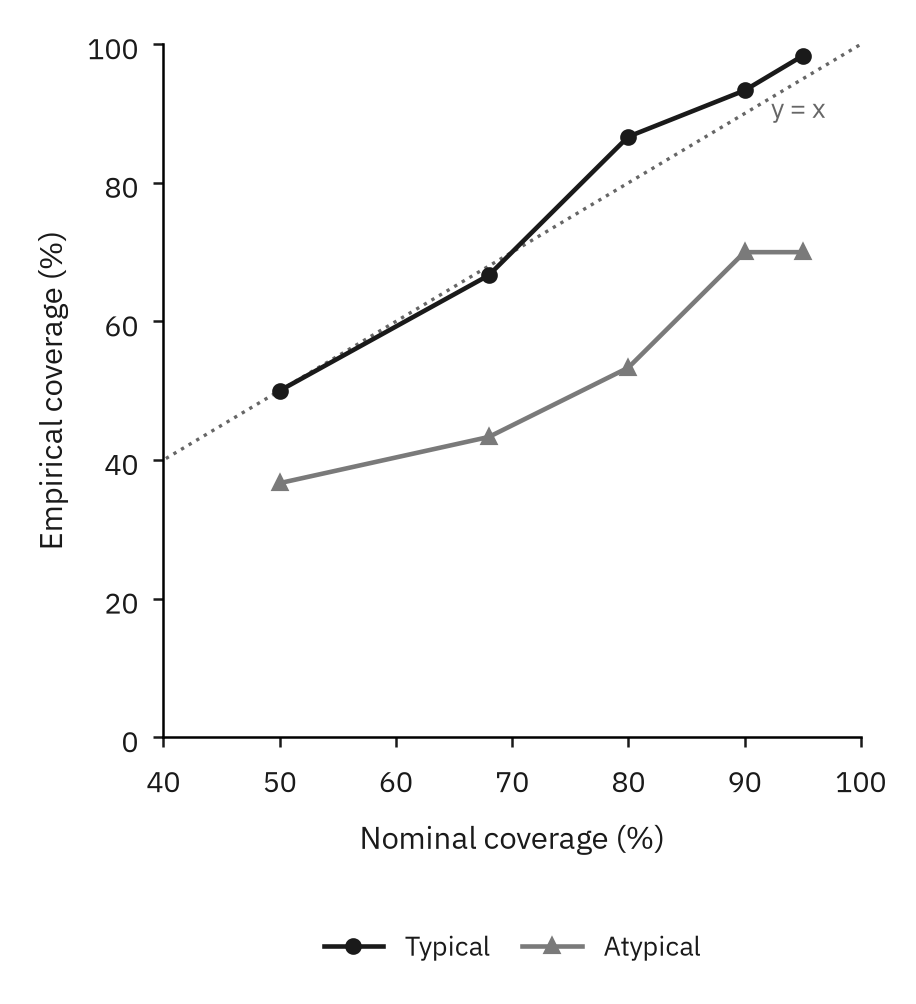
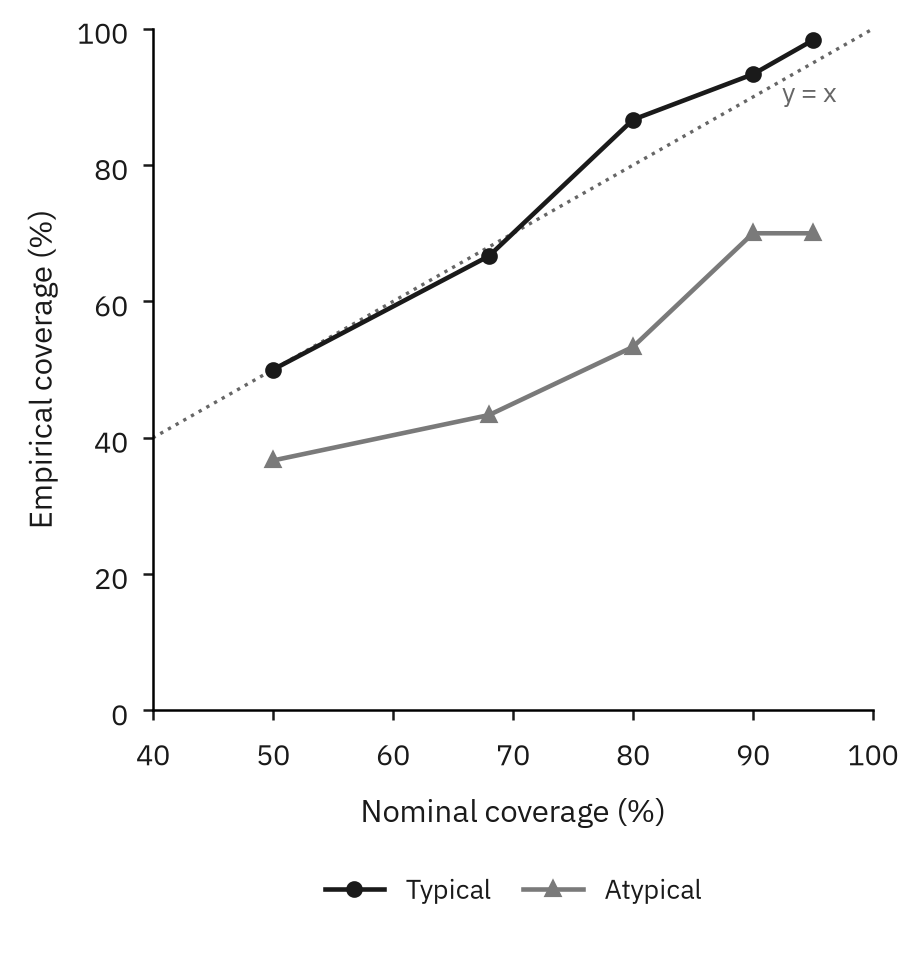
Add population simulation and figures to README

diff --git a/mobile/src/domain/__sim__/population.sim.ts b/mobile/src/domain/__sim__/population.sim.ts
@@ -1,0 +1,265 @@
+/// <reference types="node" />
+import { mkdirSync, writeFileSync } from 'fs';
+import { join } from 'path';
+
+import { reportBias, weeklyDose, type LoggedSet } from '../dose';
+import { EXERCISES_BY_ID, type Muscle } from '../exercises';
+import { DEFAULT_WEEKLY_SETS, generatePlan } from '../generator';
+import { calibratedCost, DAY_SHARE, MAX_EFFECTIVE_SETS, mulberry32, normal, optimizeVolume, plannedEffortWeight, PRIORS, samplePrior, SIGMA_1, summarize, type Particle, type Posterior } from '../model';
+import { ADDED_WEIGHT_LIFTS } from '../progress';
+import { clampProfile, DEFAULT_DAYS, DEFAULT_PROFILE, type Experience, type Goal, type Profile, type Sex } from '../profile';
+import { estimateFromBracket, updateAfterSet, type LoadEstimate } from '../session-update';
+import { COMBAT_SPORTS, SPORT_PROFILES, type Sport } from '../sports';
+
+const PEOPLE = Number(process.env.SIM_PEOPLE ?? 90);
+const WEEKS = Number(process.env.SIM_WEEKS ?? 26);
+const FIRST = Number(process.env.SIM_FIRST ?? 0);
+const OBS = process.env.SIM_OBS === 'matched' ? 'matched' : 'current';
+const DOSE = (['random', 'blocks', 'weeks'] as const).find((d) => d === process.env.SIM_DOSE) ?? 'plan';
+const LOADS = (['double', 'linear'] as const).find((d) => d === process.env.SIM_LOADS) ?? 'app';
+const DELOAD = 0.9;
+const STALLS = 3;
+const OUT = process.env.SIM_OUT ?? join(__dirname, '../../../../analysis/optimization/results.json');
+const START = '2026-01-05';
+const CHECKPOINTS = [1, 2, 4, 6, 8, 12, 16, 20, 26, 39, 52].filter((w) => w <= WEEKS);
+const LEVELS = [50, 68, 80, 90, 95];
+
+type Person = {
+  id: number;
+  cohort: 'on_prior' | 'off_prior';
+  sex: Sex;
+  ageYears: number;
+  heightCm: number;
+  bodyweightKg: number;
+  experience: Experience;
+  sport: Sport;
+  goal: Goal;
+  daysPerWeek: number;
+  truth: Particle;
+};
+
+const dayOf = (week: number, weekday: number) => new Date(Date.parse(`${START}T00:00:00Z`) + (week * 7 + weekday) * 86400000).toISOString().slice(0, 10);
+const pick = <T,>(rand: () => number, items: readonly T[], weights?: number[]) => {
+  const w = weights ?? items.map(() => 1);
+  let u = rand() * w.reduce((a, b) => a + b, 0);
+  for (let i = 0; i < items.length; i++) if ((u -= w[i]) <= 0) return items[i];
+  return items[items.length - 1];
+};
+
+function makePerson(id: number): Person {
+  const rand = mulberry32(9000 + id);
+  const cohort = id % 3 === 2 ? 'off_prior' : 'on_prior';
+  const sex = pick(rand, ['male', 'female'] as const, [0.6, 0.4]);
+  const heightCm = Math.round(sex === 'male' ? 177 + 7 * normal(rand) : 164 + 6 * normal(rand));
+  const bmi = Math.min(36, Math.max(19, 25 + 3.5 * normal(rand)));
+  const bodyweightKg = Math.round(bmi * (heightCm / 100) ** 2 * 10) / 10;
+  const experience = pick(rand, ['new', 'some', 'experienced'] as const, [0.4, 0.35, 0.25]);
+  const sport = pick(rand, ['general', 'general', 'general', 'muay_thai', 'boxing', 'wrestling', 'powerlifting'] as const);
+  const goal = sport === 'general' ? pick(rand, ['strength', 'general'] as const) : SPORT_PROFILES[sport].volumeGoal;
+  const daysPerWeek = pick(rand, [2, 3, 4, 5], [0.15, 0.45, 0.3, 0.1]);
+  const truth = samplePrior(1, 500 + id, experience, sex)[0];
+  if (cohort === 'off_prior') {
+    truth.rho = truth.rho ** 2;
+    truth.k = PRIORS.kMedian * (truth.k / PRIORS.kMedian) ** 2;
+  }
+  return { id, cohort, sex, ageYears: 18 + Math.floor(rand() * 43), heightCm, bodyweightKg, experience, sport, goal, daysPerWeek, truth };
+}
+
+function profileOf(p: Person): Profile {
+  const trainingDays = DEFAULT_DAYS[p.daysPerWeek];
+  const matDays = COMBAT_SPORTS.includes(p.sport) ? [0, 1, 2, 3, 4, 5, 6].filter((d) => !trainingDays.includes(d)).slice(0, 2) : [];
+  return clampProfile({
+    ...DEFAULT_PROFILE, sex: p.sex, ageYears: p.ageYears, heightCm: p.heightCm, bodyweightKg: p.bodyweightKg, experience: p.experience,
+    sport: p.sport, goal: p.goal, daysPerWeek: p.daysPerWeek, trainingDays, matDays, confirmed: true, introSeen: true,
+  });
+}
+
+function primaryDose(sets: LoggedSet[], exerciseId: string) {
+  const w = weeklyDose(sets);
+  if (!w.length) return 0;
+  const primary = (Object.entries(EXERCISES_BY_ID[exerciseId].muscles) as [Muscle, number][]).filter(([, x]) => x === 1).map(([m]) => m);
+  return primary.reduce((s, m) => s + w[0].muscles[m].strengthDose, 0) / primary.length;
+}
+
+function reportedRir(trueRir: number, reps: number) {
+  let lo = 0;
+  let hi = trueRir;
+  for (let i = 0; i < 40; i++) {
+    const mid = (lo + hi) / 2;
+    if (mid + reportBias(mid, reps) > trueRir) hi = mid;
+    else lo = mid;
+  }
+  return (lo + hi) / 2;
+}
+
+function posteriorLog(post: Posterior, f: (p: Particle) => number) {
+  const mean = post.particles.reduce((s, p, i) => s + f(p) * post.weights[i], 0);
+  const sd = Math.sqrt(post.particles.reduce((s, p, i) => s + (f(p) - mean) ** 2 * post.weights[i], 0));
+  return { mean, sd };
+}
+
+function credibleIntervals(post: Posterior, a0: number, baseCost: number) {
+  const cost = baseCost * post.remaining.reduce((s, r, i) => s + r * post.weights[i], 0);
+  const optimum = (p: Particle, r: number) => {
+    const arg = (p.rho * a0 * r) / (p.k * cost);
+    return arg <= 1 ? 0 : Math.min(MAX_EFFECTIVE_SETS, p.k * Math.log(arg));
+  };
+  const out: Record<string, number> = {};
+  for (const level of LEVELS) {
+    const q: [number, number] = level === 68 ? SIGMA_1 : [(1 - level / 100) / 2, 1 - (1 - level / 100) / 2];
+    const { low, high } = summarize(post, optimum, q);
+    out[`lo${level}`] = low;
+    out[`hi${level}`] = high;
+  }
+  return out;
+}
+
+function simulate(person: Person) {
+  const profile = profileOf(person);
+  const rand = mulberry32(20000 + person.id);
+  const a0 = PRIORS.a0[person.sex][person.experience];
+  const sport = SPORT_PROFILES[person.sport];
+  const plannedRir = person.sport === 'general' ? (person.experience === 'new' ? 2 : 1) : sport.rir.other;
+  const defaultEffective = DEFAULT_WEEKLY_SETS[person.goal] * plannedEffortWeight(plannedRir);
+  const baseCost = calibratedCost(samplePrior(4000, 1, person.experience, person.sex), a0, defaultEffective);
+  const t = person.truth;
+  const gain = (e: number, remaining: number) => t.rho * a0 * (1 - Math.exp(-e / t.k)) * remaining;
+  const history: LoggedSet[] = [];
+  const lifts = new Map<string, { mu: number; start: number; ceiling: number }>();
+  const fixed = new Map<string, { load: number; stalls: number }>();
+  const weekly: { week: number; on_target: number; failed: number; delivered: number }[] = [];
+  const checkpoints: Record<string, number>[] = [];
+  const started = Date.now();
+
+  for (let week = 0; week < WEEKS; week++) {
+    const plan = generatePlan(profile, history, dayOf(week, 0));
+    const rec = optimizeVolume(plan.posterior, defaultEffective);
+    const cri = credibleIntervals(plan.posterior, a0, baseCost);
+    if (Math.abs(cri.lo68 - rec.effectiveSetsRange.low) > 1e-9 || Math.abs(cri.hi68 - rec.effectiveSetsRange.high) > 1e-9) throw new Error(`68% CrI does not match the app for person ${person.id}`);
+    const weekSets: LoggedSet[] = [];
+    const trueSets: LoggedSet[] = [];
+    const onTarget: boolean[] = [];
+    const failures: boolean[] = [];
+    const weekFactor = rand() < 0.5 ? 0.33 : 2;
+    for (const session of plan.sessions) {
+      const date = dayOf(week, session.weekday);
+      const dayNoise = PRIORS.sigmaMedian * normal(rand);
+      for (const ex of session.exercises) {
+        if (ex.loadKg === null || ex.loadKg <= 0) continue;
+        let s = lifts.get(ex.exerciseId);
+        if (!s) {
+          const bound = (v: number | null | undefined) => (v && v > 0 ? v : ex.loadKg!);
+          const centre = Math.sqrt(bound(ex.loadLow) * bound(ex.loadHigh)) * (1 + (ex.repRange[0] + ex.repRange[1]) / 2 / 30 + ex.targetRir / 30);
+          const mu = Math.log(centre) + 0.25 * normal(rand);
+          s = { mu, start: mu, ceiling: mu + t.h };
+          lifts.set(ex.exerciseId, s);
+        }
+        const sets =
+          DOSE === 'blocks' ? Math.max(1, Math.round(ex.sets * (Math.floor(week / 4) % 2 === 0 ? 0.5 : 1.75)))
+            : DOSE === 'random' ? Math.max(1, Math.round(ex.sets * Math.exp(0.6 * normal(rand))))
+              : DOSE === 'weeks' ? Math.max(1, Math.round(ex.sets * weekFactor))
+              : ex.sets;
+        const added = ADDED_WEIGHT_LIFTS.has(ex.exerciseId) ? person.bodyweightKg : undefined;
+        let estimate: LoadEstimate | null = ex.loadLow && ex.loadHigh ? estimateFromBracket(ex.loadLow, ex.loadHigh) : null;
+        const rule = LOADS === 'app' ? null : fixed.get(ex.exerciseId) ?? { load: ex.loadKg, stalls: 0 };
+        let load = rule ? rule.load : ex.loadKg;
+        const goal = LOADS === 'linear' ? Math.round((ex.repRange[0] + ex.repRange[1]) / 2) : null;
+        const outcomes: { reps: number; failed: boolean }[] = [];
+        const liftDay = t.sigma * Math.sqrt(DAY_SHARE) * normal(rand);
+        for (let k = 0; k < sets; k++) {
+          const rtf = OBS === 'matched'
+            ? 30 * (Math.exp(s.mu + liftDay + t.sigma * Math.sqrt(1 - DAY_SHARE) * normal(rand)) / load - 1)
+            : Math.max(0, 30 * (Math.exp(s.mu + dayNoise) / load - 1) - k * 0.4);
+          if (OBS === 'matched' && rtf < 1) continue;
+          let reps = goal ?? Math.min(ex.repRange[1], Math.max(ex.repRange[0], Math.round(rtf - ex.targetRir + (OBS === 'matched' ? 0 : 0.7 * normal(rand)))));
+          const failed = reps > rtf;
+          if (failed) reps = OBS === 'matched' ? Math.floor(rtf) : Math.max(1, Math.floor(rtf));
+          const trueRir = failed ? 0 : rtf - reps;
+          const rpe = failed ? null
+            : OBS === 'matched' ? Math.round((10 - Math.min(4, reportedRir(trueRir, reps))) * 2) / 2
+              : Math.round((10 - Math.max(0, Math.min(4, trueRir - 0.95 + normal(rand)))) * 2) / 2;
+          weekSets.push({ date, exerciseId: ex.exerciseId, reps, weightKg: load, rpe, rir: null, failed: failed || undefined });
+          trueSets.push({ date, exerciseId: ex.exerciseId, reps, weightKg: load, rpe: null, rir: failed ? null : reportedRir(trueRir, reps), failed: failed || undefined });
+          outcomes.push({ reps, failed });
+          onTarget.push(!failed && Math.abs(trueRir - ex.targetRir) <= 1);
+          failures.push(failed);
+          if (!rule && !ex.power) {
+            const u = updateAfterSet({ prior: estimate, weightKg: load, reps, rpe, missed: failed, targetReps: Math.round((ex.repRange[0] + ex.repRange[1]) / 2), targetRir: ex.targetRir, incrementKg: 2.5, bodyweightKg: added });
+            estimate = u.estimate;
+            if (u.next.value > 0) load = u.next.value;
+          }
+        }
+        if (rule && outcomes.length) {
+          const top = goal ?? ex.repRange[1];
+          const bottom = goal ?? ex.repRange[0];
+          if (outcomes.every((o) => !o.failed && o.reps >= top)) fixed.set(ex.exerciseId, { load: rule.load + 2.5, stalls: 0 });
+          else if (outcomes.some((o) => o.failed || o.reps < bottom)) {
+            const stalls = rule.stalls + 1;
+            fixed.set(ex.exerciseId, stalls >= STALLS ? { load: Math.max(2.5, Math.round((rule.load * DELOAD) / 2.5) * 2.5), stalls: 0 } : { load: rule.load, stalls });
+          } else fixed.set(ex.exerciseId, { load: rule.load, stalls: 0 });
+        }
+      }
+    }
+    history.push(...weekSets);
+    const fraction = (xs: boolean[]) => (xs.length ? xs.filter(Boolean).length / xs.length : 0);
+    const delivered: number[] = [];
+    for (const [id, s] of lifts) {
+      const e = primaryDose(trueSets, id);
+      delivered.push(e);
+      s.mu += gain(e, Math.max(0, (s.ceiling - s.mu) / t.h)) + PRIORS.processSd * normal(rand);
+    }
+    weekly.push({ week: week + 1, on_target: fraction(onTarget), failed: fraction(failures), delivered: delivered.reduce((a, b) => a + b, 0) / Math.max(1, delivered.length) });
+    if (CHECKPOINTS.includes(week + 1)) {
+      const remaining = [...lifts.values()].reduce((sum, s) => sum + Math.max(0, (s.ceiling - s.mu) / t.h), 0) / Math.max(1, lifts.size);
+      const cost = baseCost * remaining;
+      const value = (e: number) => gain(e, remaining) - cost * e;
+      let opt = 0;
+      for (let e = 0; e <= 30; e += 0.05) if (value(e) > value(opt)) opt = e;
+      const span = value(opt) - value(0);
+      const share = (e: number) => (span > 0 ? (value(e) - value(0)) / span : 1);
+      const rho = posteriorLog(plan.posterior, (p) => Math.log(p.rho));
+      const logK = posteriorLog(plan.posterior, (p) => Math.log(p.k));
+      checkpoints.push({
+        week: week + 1,
+        app: rec.effectiveSets,
+        low: rec.effectiveSetsRange.low,
+        high: rec.effectiveSetsRange.high,
+        optimum: opt,
+        default: defaultEffective,
+        delivered: delivered.reduce((a, b) => a + b, 0) / Math.max(1, delivered.length),
+        share_app: share(rec.effectiveSets),
+        share_default: share(defaultEffective),
+        learned: plan.model.learned,
+        remaining,
+        ...cri,
+        delivered_sd: Math.sqrt(delivered.reduce((v, x, _, xs) => v + (x - xs.reduce((m, y) => m + y, 0) / xs.length) ** 2, 0) / Math.max(1, delivered.length)),
+        post_log_rho: rho.mean,
+        post_log_rho_sd: rho.sd,
+        post_log_k: logK.mean,
+        post_log_k_sd: logK.sd,
+      });
+    }
+  }
+  const logGains = [...lifts.values()].map((s) => s.mu - s.start);
+  const { truth, ...rest } = person;
+  return {
+    ...rest,
+    truth: { rho: truth.rho, k: truth.k, headroom: truth.h, sigma: truth.sigma, a0 },
+    default_dose: defaultEffective,
+    strength_gain_pct: (Math.exp(logGains.reduce((a, b) => a + b, 0) / Math.max(1, logGains.length)) - 1) * 100,
+    seconds: (Date.now() - started) / 1000,
+    weekly,
+    checkpoints,
+  };
+}
+
+test('population: app volume vs each person’s true optimum', () => {
+  const people = Array.from({ length: PEOPLE }, (_, i) => makePerson(FIRST + i));
+  const results = people.map((p) => {
+    const r = simulate(p);
+    console.log(`person ${p.id} ${p.cohort} ${p.sex} ${p.experience} ${p.sport}: ${r.seconds.toFixed(1)} s`);
+    return r;
+  });
+  mkdirSync(join(OUT, '..'), { recursive: true });
+  writeFileSync(OUT, JSON.stringify({ weeks: WEEKS, obs: OBS, dose: DOSE, loads: LOADS, start: START, people: results }, null, 1));
+}, 24 * 3_600_000);

diff --git a/analysis/optimization/plots.py b/analysis/optimization/plots.py
@@ -28,12 +28,21 @@ plt.rcParams.update({
     "ytick.labelsize": 7, "legend.fontsize": 6.5, "legend.frameon": False, "axes.linewidth": 0.6,
     "axes.spines.top": False, "axes.spines.right": False, "xtick.major.width": 0.6, "ytick.major.width": 0.6,
     "xtick.major.size": 2.5, "ytick.major.size": 2.5, "axes.grid": False, "text.color": INK, "axes.labelcolor": INK,
-    "xtick.color": INK, "ytick.color": INK, "savefig.dpi": 300, "savefig.bbox": "tight",
+    "xtick.color": INK, "ytick.color": INK, "savefig.dpi": 300,
 })
 
 people = json.loads((HERE / "results-app.json").read_text())["people"]
 final = max(c["week"] for p in people for c in p["checkpoints"])
 FIGURES.mkdir(exist_ok=True)
+
+
+PANEL = {"figsize": (3.0, 3.2), "layout": {"left": 0.17, "right": 0.97, "bottom": 0.26, "top": 0.97}}
+
+
+def panel():
+    fig, ax = plt.subplots(figsize=PANEL["figsize"])
+    fig.subplots_adjust(**PANEL["layout"])
+    return fig, ax
 
 
 def last(p):
@@ -44,7 +53,7 @@ def coverage(group, level):
     return 100 * np.mean([last(p)[f"lo{level}"] <= last(p)["optimum"] <= last(p)[f"hi{level}"] for p in group])
 
 
-fig, ax = plt.subplots(figsize=(3.0, 3.0))
+fig, ax = panel()
 ax.plot([0, 100], [0, 100], color=MUTED, lw=0.8, ls=":", zorder=1)
 ax.annotate("y = x", (97, 97), ha="right", va="top", xytext=(0, -6), textcoords="offset points", fontsize=6.5, color=MUTED)
 for name, c in COHORTS.items():
@@ -56,7 +65,7 @@ ax.set_xlim(40, 100)
 ax.set_ylim(0, 100)
 ax.set_xlabel("Nominal coverage (%)")
 ax.set_ylabel("Empirical coverage (%)")
-ax.legend(loc="upper center", bbox_to_anchor=(0.5, -0.24), ncol=2, handlelength=2.2, columnspacing=1.2)
+ax.legend(loc="upper center", bbox_to_anchor=(0.5, -0.2), ncol=2, handlelength=2.2, columnspacing=1.2)
 fig.savefig(FIGURES / "calibration.png")
 plt.close(fig)
 
@@ -70,12 +79,12 @@ def failed(p):
 app_failed = [failed(p) for p in people]
 double_failed = [failed(double[p["id"]]) for p in people]
 print("median failed sets: app %.1f%%, double %.1f%%" % (np.median(app_failed), np.median(double_failed)))
-fig, ax = plt.subplots(figsize=(3.2, 2.4))
+fig, ax = panel()
 bins = np.arange(0, max(double_failed) + 2.5, 2.5)
 ax.hist(app_failed, bins, color=INK, edgecolor="white", lw=0.4, label="App")
 ax.hist(double_failed, bins, histtype="step", color=MUTED, lw=0.9, label="Double progression")
 ax.set_xlabel(f"Failed sets, weeks {final // 2}–{final} (%)")
 ax.set_ylabel("Simulated users")
-ax.legend(loc="upper right")
+ax.legend(loc="upper center", bbox_to_anchor=(0.5, -0.2), ncol=2, handlelength=2.2, columnspacing=1.2)
 fig.savefig(FIGURES / "failed.png")
 plt.close(fig)

diff --git a/README.md b/README.md
@@ -1,11 +1,12 @@
 # IronPlan
-Open source exercise plan generation based on Bayesian hierarchical modeling. Plans update after data is collected to be further refined for user target (e.g. for MMA, Powerlifting, General Health). Optimizes both exercises, weight, and volume.
+![CI](https://img.shields.io/github/actions/workflow/status/I-naY-reversed/IronPlan-WorkoutPlanner/ci.yml?branch=main&label=CI)
+![Release](https://img.shields.io/github/v/release/I-naY-reversed/IronPlan-WorkoutPlanner?include_prereleases)
+![Platform](https://img.shields.io/badge/platform-Android-3DDC84)
+![Expo](https://img.shields.io/badge/Expo-SDK%2058-000020)
 
-## Analysis
-TODO:
+Open source exercise plan generation based on Bayesian hierarchical modeling. Plans update after data is collected to be further refined for user target (e.g. for MMA, Powerlifting, General Health). Optimizes exercises and weight. Volume optimization is experimental.
 
-## Screenshots
-<img width="100%" alt="Ironplan: the weight for every set, and why" src="marketing/featureGraphic.png" />
+<img width="100%" alt="IronPlan: the weight for every set, and why." src="marketing/featureGraphic.png" />
 
 <table>
   <tr>
@@ -16,12 +17,55 @@ TODO:
   <tr>
     <td><img width="100%" alt="Plan built around Muay Thai practice days" src="marketing/04_combat.png" /></td>
     <td><img width="100%" alt="Progress chart with its uncertainty band" src="marketing/05_progress.png" /></td>
-    <td><img width="100%" alt="Importing a Strong or Hevy history" src="marketing/06_import.png" /></td>
+    <td><img width="100%" alt="Importing Strong or Hevy history" src="marketing/06_import.png" /></td>
   </tr>
 </table>
+
+## Download
+Android only for now. Get the APK from [Releases](https://github.com/I-naY-reversed/IronPlan-WorkoutPlanner/releases) and open it on your phone. Android will ask you to allow installs from your browser or file manager the first time.
+
+Current releases are pre-releases.
+
+### Build from source
+Requires Node 22.
+
+```bash
+cd mobile
+npm ci
+npm run web
+npm run android
+```
+
+Tests: `npm run typecheck`, `npm run lint`, `npm test`.
+
+## Analysis
+We plot the results from a simulation of 90 users over 26 weeks, each with a known optimal weekly dose per muscle. Note, this uses the same priors as the app. Typical refers to typical responders. Atypical users respond much better or much worse than the population average (twice the usual spread; see [analysis/optimization](analysis/optimization) for details).
+<table>
+<tr>
+  <td><img width="100%" alt="Calibration of the app's ranges" src="analysis/optimization/figures/calibration.png"/></td>
+  <td><img width="100%" alt="Regret of the app and the default volume" src="analysis/optimization/figures/failed.png"/></td>
+</tr>
+</table>
+
+The error bars are accurate for typical users: 68% ranges contained the true value 67% of the time, and 95% ranges 98% of the time. For atypical users they are too narrow (70% at 95%). Volume prescription is still a work in progress. The app did not beat the research default, and deliberately raising and lowering volume did not help it learn a user's response to volume within 26 weeks.
+
+However, against fixed programmes (same users, exercises and starting weights), the app reached the target effort about **two weeks sooner** and had less than **half the failed sets** of double progression (7% vs 17%), with the same strength gains.
+
+<img width="100%" alt="App vs double and linear progression" src="analysis/optimization/figures/versus.png"/>
+
+### Reproduction
+Requires Node 22 and Python with matplotlib and numpy. Each simulation takes about 40 minutes on around-average hardware.
+```bash
+cd mobile
+export SIM_OBS=matched
+for l in app double linear; do SIM_LOADS=$l SIM_OUT=../analysis/optimization/results-$l.json npx jest --testMatch '**/__sim__/population.sim.ts'; done
+cd ../analysis/optimization
+python3 plots.py
+python3 versus.py
+```
 
 ## Privacy
 All models, data, notifications are entirely local. No data is sent to any server. The application can work entirely offline.
 
 ## Health Notice
-Ironplan is not a medical device and does not diagnose, treat, cure, or prevent any medical condition. Consult a healthcare professional before starting a new training programme, and for medical advice, diagnosis or treatment.
+IronPlan is not a medical device and does not diagnose, treat, cure, or prevent any medical condition. Consult a healthcare professional before starting a new training programme, and for medical advice, diagnosis or treatment.
